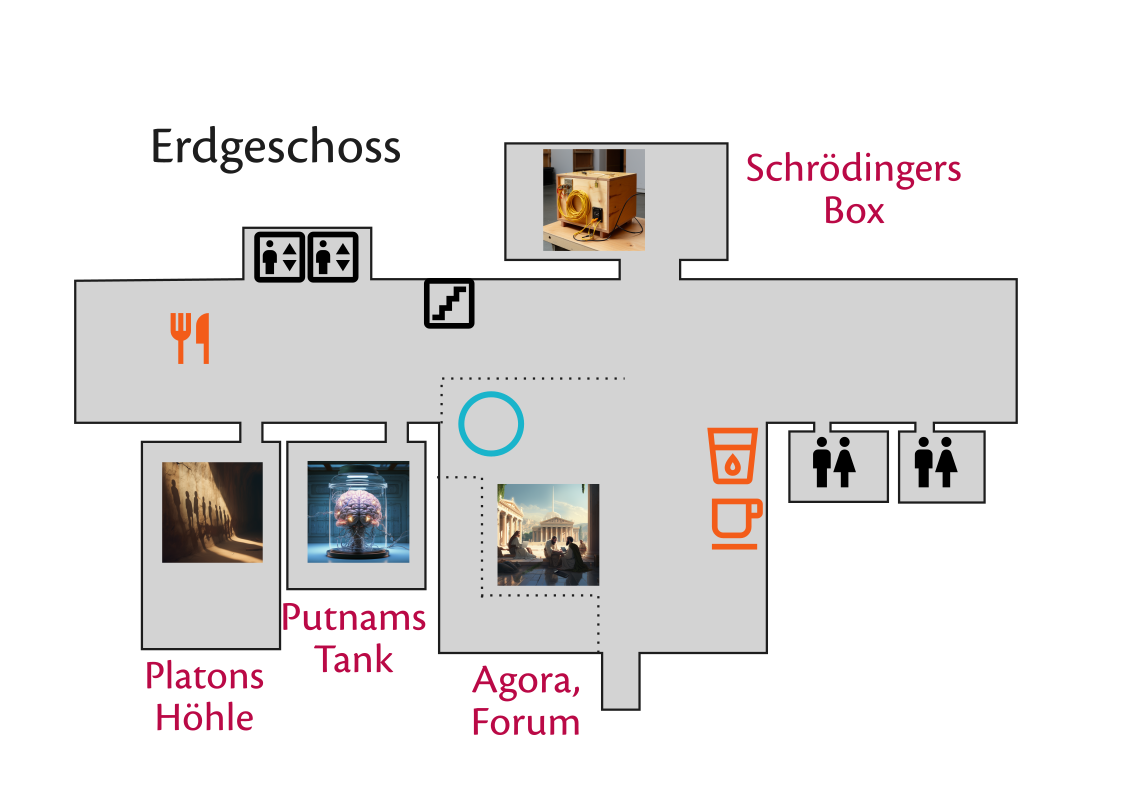
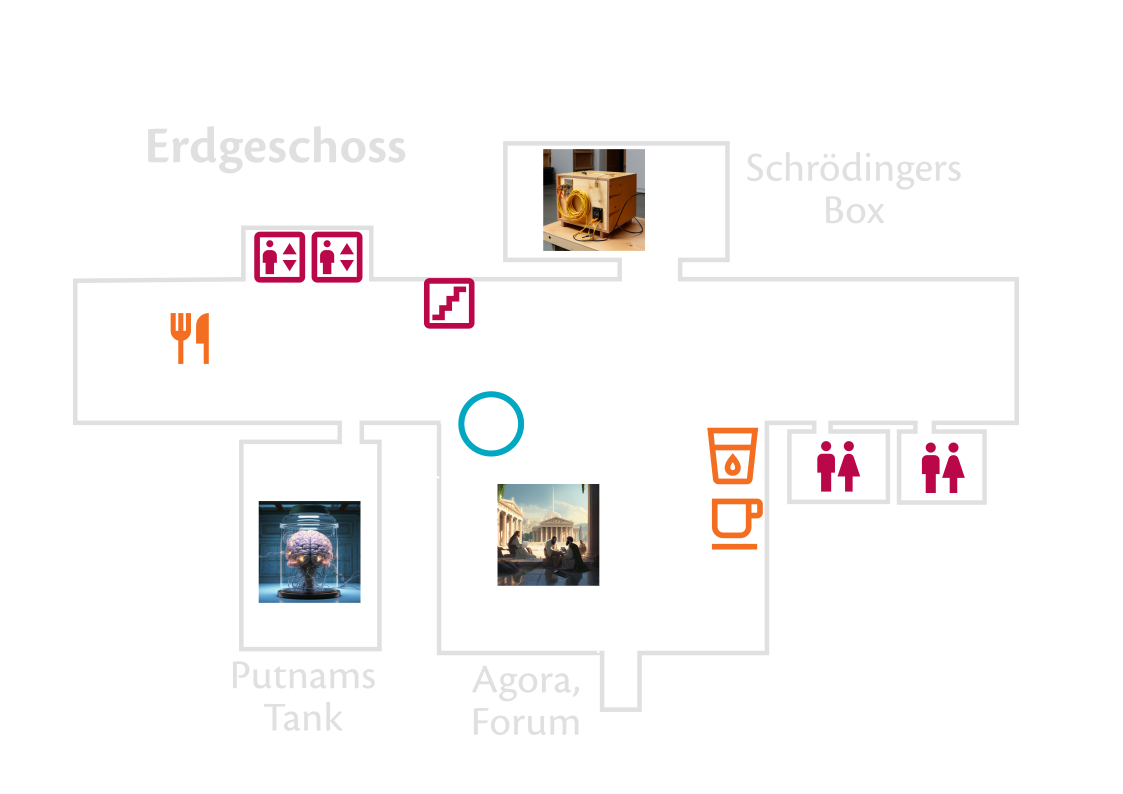
feat: use dark mode images for rooms

diff --git a/app/routes/rooms.tsx b/app/routes/rooms.tsx
@@ -1,6 +1,6 @@
 export default function Rooms() {
   return (
-    <main className="bg-white rounded-lg mt-4">
+    <main className="mt-4 flex flex-col items-center">
       <img src="eg.png" />
       <img src="og.png" />
     </main>
